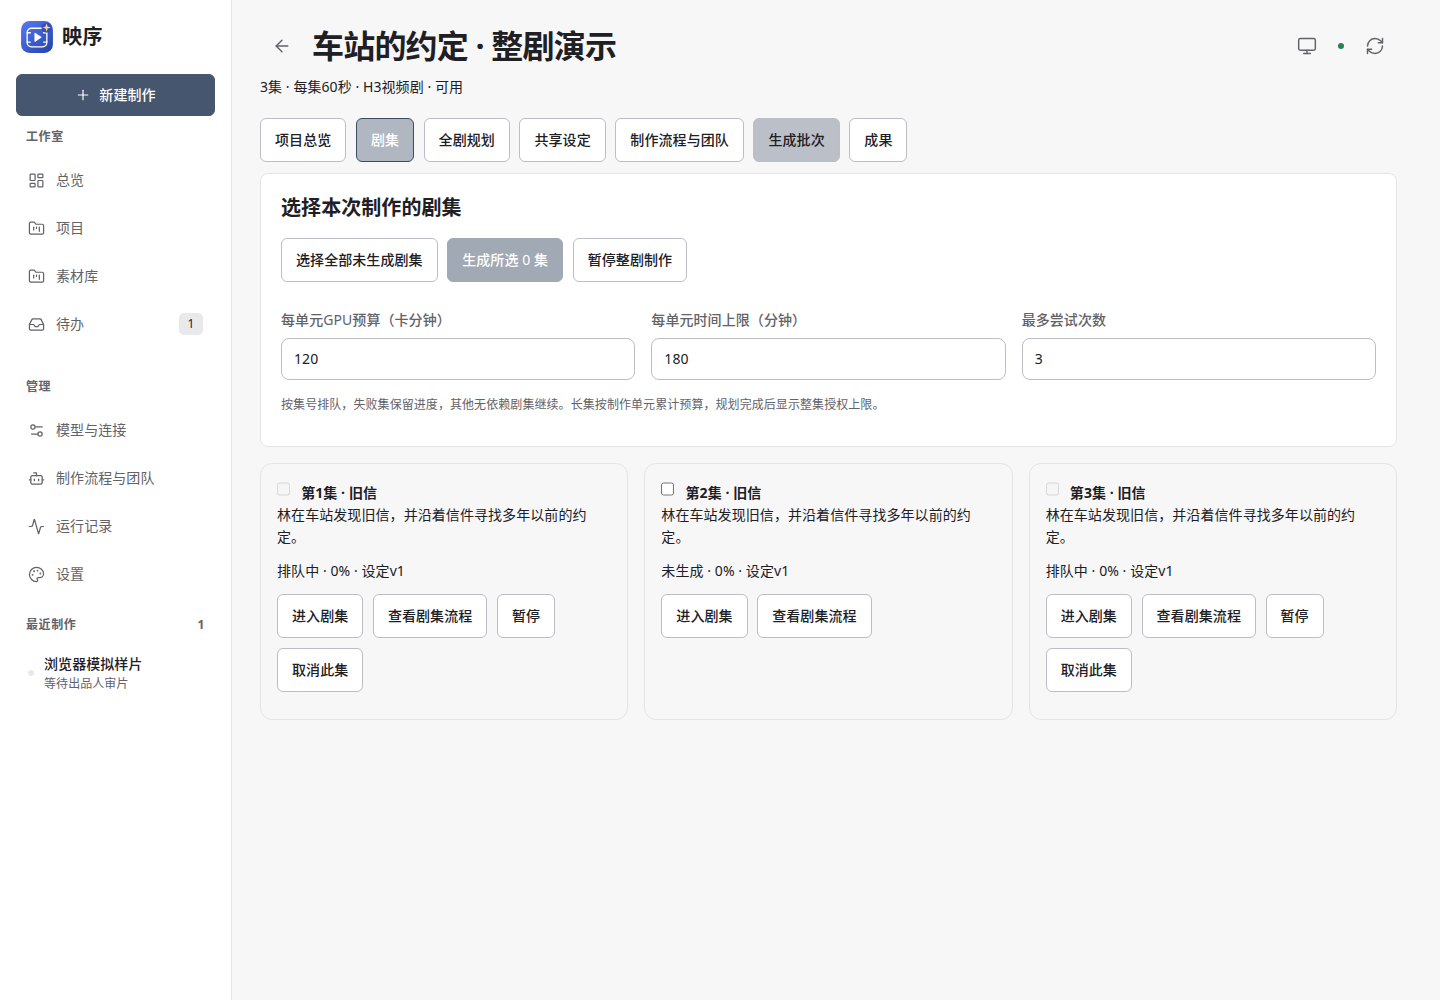
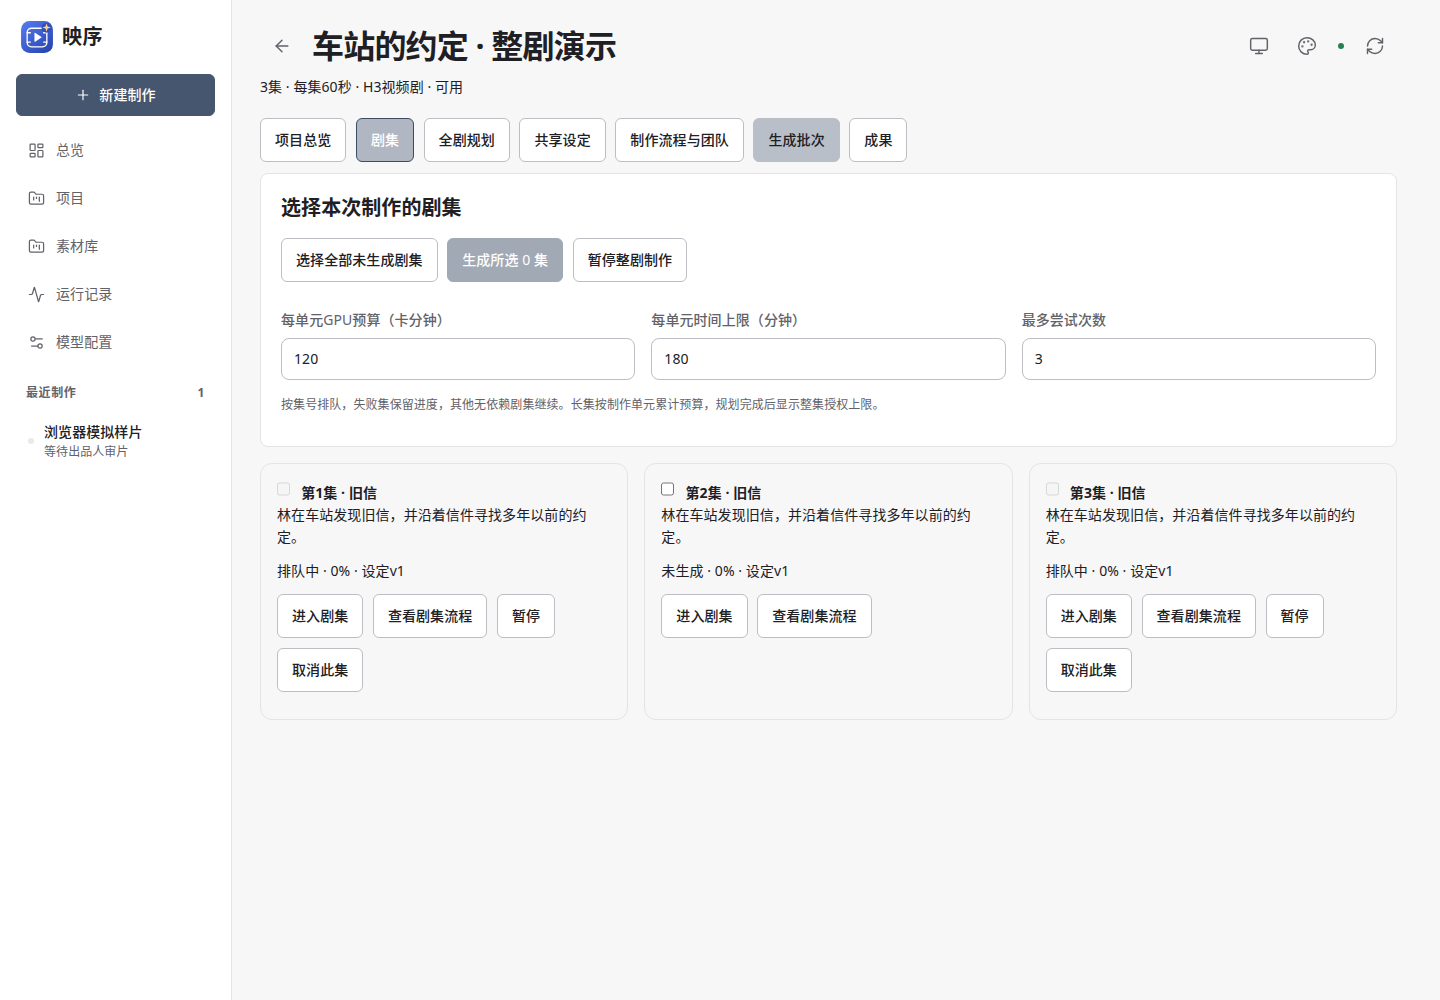
refactor: flatten navigation and consolidate overview decisions
Keep five primary destinations, move pending decisions and their complete pagination into the overview, and expose appearance through shared page tools. Preserve project workflows and existing model configuration while normalizing legacy inbox and global workflow links.

Changed region(s): [[0.0, 0.124, 0.125, 0.496], [0.0, 0.62, 0.0938, 0.713], [0.0312, 0.558, 0.0625, 0.589]]

diff --git a/ui/factory/src/App.tsx b/ui/factory/src/App.tsx
@@ -5,7 +5,6 @@ import {
   FolderKanban,
   Inbox,
   Settings2,
-  Palette,
   Activity,
   Plus,
   Clapperboard,
@@ -81,8 +80,10 @@ import {
 type Route = { view: string; project: string; tab: string };
 function readRoute(): Route {
   const p = new URLSearchParams(location.hash.slice(1));
+  const requested = p.get("view") || "dashboard";
+  const view = requested === "inbox" ? "dashboard" : requested === "workflow" ? "projects" : requested;
   return {
-    view: p.get("view") || "dashboard",
+    view: ["dashboard", "projects", "library", "activity", "models", "settings"].includes(view) ? view : "dashboard",
     project: p.get("project") || "",
     tab: p.get("tab") || "overview",
   };
@@ -91,11 +92,8 @@ const links = [
   ["dashboard", "总览", LayoutDashboard],
   ["projects", "项目", FolderKanban],
   ["library", "素材库", FolderKanban],
-  ["inbox", "待办", Inbox],
-  ["workflow", "制作流程与团队", Bot],
-  ["models", "模型与连接", Settings2],
   ["activity", "运行记录", Activity],
-  ["settings", "设置", Palette],
+  ["models", "模型配置", Settings2],
 ] as const;
 export default function App() {
   return (
@@ -152,11 +150,6 @@ function Workbench() {
     models = useQuery({
       queryKey: keys.models,
       queryFn: () => request("/models"),
-      staleTime: 60000,
-    }),
-    spec = useQuery({
-      queryKey: keys.workflow,
-      queryFn: () => request("/workflow"),
       staleTime: 60000,
     }),
     profiles = useQuery({
@@ -281,14 +274,8 @@ function Workbench() {
             <Plus size={16} />
             新建制作
           </button>
-          <nav className="main-nav">
-            {[
-              { label: "工作室", entries: links.slice(0, 4) },
-              { label: "管理", entries: [links[5], links[4], links[6], links[7]] },
-            ].map((group) => (
-              <div className="nav-group" key={group.label}>
-                <div className="sidebar-label">{group.label}</div>
-                {group.entries.map(([view, label, Icon]) => (
+          <nav className="main-nav" aria-label="主导航">
+                {links.map(([view, label, Icon]) => (
                   <button
                     key={view}
                     className={
@@ -310,15 +297,8 @@ function Workbench() {
                   >
                     <Icon size={17} />
                     {label}
-                    {view === "inbox" && (
-                      <span className="nav-count">
-                        {metrics.attention || 0}
-                      </span>
-                    )}
                   </button>
                 ))}
-              </div>
-            ))}
           </nav>
           <div className="sidebar-label row-between">
             <span>最近制作</span>
@@ -355,6 +335,7 @@ function Workbench() {
               syncError: overview.isError,
               syncing: overview.isFetching,
               refresh,
+              openSettings: () => navigate("settings"),
             }}
           >
             <main id="workspace" tabIndex={-1}>
@@ -411,8 +392,6 @@ function Workbench() {
                       openProject={openProject}
                       create={() => setCreate(true)}
                     />
-                  ) : route.view === "inbox" ? (
-                    <InboxPage openProject={openProject} />
                   ) : route.view === "activity" ? (
                     <>
                       <Heading
@@ -428,80 +407,7 @@ function Workbench() {
                         />
                       </Panel>
                     </>
-                  ) : (
-                    <>
-                      <Heading
-                        eyebrow="PRODUCTION WORKFLOW"
-                        title="制作流程与团队"
-                        description="查看团队如何分工、交接与独立审核，进入项目追踪实际执行。"
-                      />
-                      <Panel title="当前执行任务">
-                        <RunningTasks
-                          tasks={rows(overview.data.running_tasks)}
-                          openProject={openProject}
-                        />
-                      </Panel>
-                      <Panel title="项目工作流">
-                        {!projects.length ? <Empty title="尚无项目" /> : <div className="drama-cards">{projects.map(p => <article className="drama-card" key={p.id}>
-                          <strong>{p.title}</strong>
-                          <p>{activityName(p.stage || p.status)}</p>
-                          <button className="button" onClick={() => openProject(p.id, p.record_kind === "drama" || (p.record_kind === "episode" && p.duration_seconds > 90) ? "workflow" : "overview")}>查看实际流程</button>
-                        </article>)}</div>}
-                      </Panel>
-                      <Panel
-                        title="短片标准流程"
-                        description="此处为短片流程参考，具体执行与返修请打开上方项目工作流。"
-                      >
-                        <FloatingErrorNotice error={spec.error} />
-                        {spec.error && (
-                          <button
-                            className="button"
-                            onClick={() => spec.refetch()}
-                          >
-                            重新读取制作流程
-                          </button>
-                        )}
-                        {spec.isPending ? (
-                          <Loading />
-                        ) : (
-                          !spec.error && (
-                            <Workflow
-                              graph={
-                                spec.data?.production_graph ||
-                                spec.data?.workflow || {
-                                  nodes: rows(spec.data?.nodes),
-                                  edges: rows(spec.data?.edges),
-                                }
-                              }
-                            />
-                          )
-                        )}
-                      </Panel>
-                      <Panel title="已配置的 Agent">
-                        <div className="agent-grid">
-                          {rows(models.data?.roles).map((r) => (
-                            <article className="agent-card" key={r.role}>
-                              <span className="agent-avatar">
-                                <Bot size={20} />
-                              </span>
-                              <h3>{r.label || roleName(r.role)}</h3>
-                              <p>
-                                {r.model ||
-                                  models.data?.editable_profiles?.[r.profile]
-                                    ?.model ||
-                                  "自动编排 / 尚未分配"}
-                              </p>
-                              <small>
-                                {r.requires_vision
-                                  ? "需要图像理解"
-                                  : "工作流角色"}
-                              </small>
-                            </article>
-                          ))}
-                        </div>
-                      </Panel>
-                    </>
-                  )}
+                  ) : null}
                 </>
               )}
             </main>
@@ -622,23 +528,7 @@ function Dashboard({
             />
           )}
         </Panel>
-        <Panel
-          title="需要你的决定"
-          description="每项待办都有明确的原因与下一步"
-          action={
-            <button className="text-link" onClick={() => navigate("inbox")}>
-              全部待办
-              <ArrowUpRight size={14} />
-            </button>
-          }
-          className="dashboard-inbox"
-        >
-          <Attention
-            projects={rows(o.attention_projects || o.projects)}
-            openProject={openProject}
-            limit={3}
-          />
-        </Panel>
+        <PendingDecisions overview={o} openProject={openProject} />
         <Panel title="最近动态" className="dashboard-activity">
           <ActivityList
             events={rows(o.activity).slice(0, 5)}
@@ -2203,9 +2093,11 @@ function Pagination({
     </div>
   );
 }
-function InboxPage({
+function PendingDecisions({
+  overview,
   openProject,
 }: {
+  overview: RecordData;
   openProject: (id: string, tab?: string) => void;
 }) {
   const [offset, setOffset] = useState(0),
@@ -2215,34 +2107,30 @@ function InboxPage({
         request("/console?attention_offset=" + offset + "&attention_limit=100"),
       refetchInterval: 10000,
     });
+  const snapshot = query.data || (offset === 0 ? overview : undefined);
   return (
-    <>
-      <Heading
-        eyebrow="DECISION INBOX"
-        title="待办决策"
-        description="按实际阻断与人工关卡整理，较早项目的待办同样保留。"
-      />
-      <Panel title="需要你处理">
+      <Panel title="待办" className="dashboard-inbox">
         <FloatingErrorNotice error={query.error} />
-        {query.data ? (
+        {snapshot ? (
           <>
             <Attention
               projects={rows(
-                query.data.attention_projects || query.data.projects,
+                snapshot.attention_projects || snapshot.projects,
               )}
               openProject={openProject}
             />
             <Pagination
-              pagination={query.data.attention_pagination}
+              pagination={snapshot.attention_pagination}
               offset={offset}
               onOffset={setOffset}
+              disabled={query.isFetching}
             />
           </>
         ) : (
-          <Loading />
+          query.error ? <Empty title="待办暂时无法读取" /> : <Loading />
         )}
+        {query.error && <button className="button" onClick={() => query.refetch()}>重新读取待办</button>}
       </Panel>
-    </>
   );
 }
 function CurrentOutput({ project: p }: { project: RecordData }) {

diff --git a/ui/factory/src/PageHeader.tsx b/ui/factory/src/PageHeader.tsx
@@ -8,7 +8,7 @@ import {
   type ReactNode,
   type RefObject,
 } from "react";
-import { Menu, MoreHorizontal, RefreshCw } from "lucide-react";
+import { Menu, MoreHorizontal, Palette, RefreshCw } from "lucide-react";
 import { ThemeControl } from "./Theme";
 import { StatusIndicator } from "./StatusIndicator";
 
@@ -19,6 +19,7 @@ type HeaderTools = {
   syncError: boolean;
   syncing: boolean;
   refresh: () => void;
+  openSettings?: () => void;
 };
 const ToolsContext = createContext<HeaderTools | null>(null);
 export const PageHeaderProvider = ToolsContext.Provider;
@@ -85,6 +86,20 @@ function WorkspaceTools({ tools }: { tools: HeaderTools }) {
         aria-label="页面工具操作"
       >
         <ThemeControl />
+        {tools.openSettings && (
+          <button
+            type="button"
+            className="icon-button"
+            aria-label="外观设置"
+            title="外观设置"
+            onClick={() => {
+              setOpen(false);
+              tools.openSettings?.();
+            }}
+          >
+            <Palette size={20} aria-hidden="true" />
+          </button>
+        )}
         <span
           className={
             "sync-state " + (tools.syncError ? "error-text" : "sync-compact")

diff --git a/tests/ui/page-header.test.tsx b/tests/ui/page-header.test.tsx
@@ -10,7 +10,8 @@ import { ThemeProvider } from "../../ui/factory/src/Theme";
 
 it("keeps one title with real parent navigation, actions and shared tools", async () => {
   const refresh = vi.fn(),
-    navigate = vi.fn();
+    navigate = vi.fn(),
+    settings = vi.fn();
   const navigationTrigger = createRef<HTMLButtonElement>();
   render(
     <ThemeProvider>
@@ -22,6 +23,7 @@ it("keeps one title with real parent navigation, actions and shared tools", asyn
           syncError: true,
           syncing: false,
           refresh,
+          openSettings: settings,
         }}
       >
         <PageHeader
@@ -38,6 +40,8 @@ it("keeps one title with real parent navigation, actions and shared tools", asyn
   expect(navigate).toHaveBeenCalledOnce();
   await userEvent.click(screen.getByRole("button", { name: "刷新项目" }));
   expect(refresh).toHaveBeenCalledOnce();
+  await userEvent.click(screen.getByRole("button", { name: "外观设置" }));
+  expect(settings).toHaveBeenCalledOnce();
   expect(screen.getByRole("status")).toHaveTextContent("同步中断");
   expect(navigationTrigger.current).toBe(
     screen.getByRole("button", { name: "展开导航" }),

diff --git a/ui/factory/src/Models.tsx b/ui/factory/src/Models.tsx
@@ -171,7 +171,7 @@ export function Models({ notify }: { notify: (v: string) => void }) {
   if (!inventory || !draft)
     return (
       <>
-        <Heading eyebrow="MODEL SETTINGS" title="模型与连接" />
+        <Heading eyebrow="MODEL SETTINGS" title="模型配置" />
         <FloatingErrorNotice error={query.error} />
         {query.error ? (
           <button className="button" onClick={() => query.refetch()}>
@@ -196,7 +196,7 @@ export function Models({ notify }: { notify: (v: string) => void }) {
   };
   return (
     <div className="model-settings">
-      <Heading eyebrow="MODEL SETTINGS" title="模型与连接" />
+      <Heading eyebrow="MODEL SETTINGS" title="模型配置" />
       <div
         className={
           "model-settings-toolbar" +

diff --git a/ui/factory/src/styles/base.css b/ui/factory/src/styles/base.css
@@ -239,6 +239,7 @@ pre {
 .main-nav {
   display: grid;
   gap: 4px;
+  margin-top: 12px;
 }
 .nav-item {
   border: 0;

diff --git a/docs/UI_DESIGN.md b/docs/UI_DESIGN.md
@@ -14,7 +14,7 @@
 
 ## 外观设置
 
-侧栏“设置”打开`#view=settings`，独立提供显示模式（跟随系统、浅色、深色）与六款主题色。点选即时应用到全局按钮、导航、焦点、进度和工作流选中态；页面展示真实主题 token 的效果预览，无需保存按钮。设置页不依赖业务API可用性，也不写入模型、项目或服务器配置。
+页面右上角“外观设置”图标打开`#view=settings`；手机先展开“页面工具”。外观设置独立提供显示模式（跟随系统、浅色、深色）与六款主题色。点选即时应用到全局按钮、导航、焦点、进度和工作流选中态；页面展示真实主题 token 的效果预览，无需保存按钮。设置页不依赖业务API可用性，也不写入模型、项目或服务器配置。
 
 | 主题 | 浅色模式主色 | 视觉方向 |
 | --- | --- | --- |
@@ -33,7 +33,9 @@
 
 ## 导航与内容
 
-全局日常入口：总览、项目、素材库、待办。管理入口：模型与连接、流程与团队、运行记录、设置；近期项目保留直接访问。
+侧栏采用扁平导航，按顺序仅显示总览、项目、素材库、运行记录、模型配置，不再显示“工作室／管理”分组及全局“流程与团队”入口；近期项目仍可直接访问。模型页使用“模型配置”名称，模型地址、角色分工和工作流定义不因导航调整而改变。
+
+待办集中在总览，直接进入对应项目及需处理阶段。完整列表沿用独立待办分页查询，每页最多100项，不限于最近项目；分页失败可就近点击“重新读取待办”，错误仍通过统一反馈区显示。旧`#view=inbox`链接显示总览，旧`#view=workflow`显示项目列表；保留原地址及浏览器历史。具体项目里的工作流、团队和执行回执入口继续使用。
 
 | 主入口 | 原 hash 与子页面 |
 | --- | --- |
@@ -54,7 +56,7 @@
 ## 验证与证据
 
 - UI 单测覆盖主题、旧路由、审核阶段显示、版本对比、待审核与失败区分、播放 DOM 保持及选片修订保护。
-- 浏览器覆盖全部 7 个全局视图和 10 个项目页面，浅深两套主题及 320/390/768/1024/1440/1920 宽度，检查溢出、按钮可达、旧链接与历史、草稿、表单保存和作品下载。
+- 浏览器覆盖全部5个主导航页面、外观设置、旧全局链接及10个项目页面，浅深两套主题及320/390/768/1024/1440/1920宽度，检查溢出、按钮可达、旧链接与历史、草稿、表单保存和作品下载。
 - 交互使用独立 fixtures 与独立临时 SQLite；真实 HTTP 测试使用测试 Python 服务。色条媒体、模拟模型与审核数据均为测试材料，不是模型推理或制作质量验收。
 - 本次验收不操作正式项目，不调用真实生成，不自动合并或部署。历史截图见[UI改造证据](images/ui-unification/README.md)，当前配色、品牌和审核返修界面见[本轮证据](images/review-return/README.md)。
 

diff --git a/docs/DRAMA_PRODUCTION.md b/docs/DRAMA_PRODUCTION.md
@@ -12,7 +12,7 @@
 
 整剧默认打开项目总览，显示规划、剧集与待处理事项；顶栏分别打开全剧规划、共享设定、剧集、批次、成果及“制作流程与团队”。规划尚未确认时，各页显示对应的准备状态和下一步入口，不再重复显示规划编辑器。页签写入地址，支持刷新、浏览器前进与后退。
 
-在项目总览点击“打开制作流程”，使用与全局工作流相同的节点图查看规划、审核、确认、制作和验收；连线标明交付和审核退回路径。点击节点查看参与角色、工作职责、输入、交付及该阶段的真实执行记录，展开记录查看模型、结果和审核问题。手机先显示流程图，点击节点进入详情，可返回流程图切换节点。规划任务从已保存的调用回执读取，缺少回执时明确提示，不把尚未执行的步骤标成已完成；旧确认版本不会把正在修改的新稿标为已确认。全局“制作流程与团队”列出项目实际流程入口，短片标准流程另作为参考展示。整剧流程可进入对应剧集，长集可继续进入制作单元的团队工作台，查看具体镜头任务、执行回执和产物。长集总览仍提供场景/单元进度、播放、下载与局部修改。桌面和手机均可选集、启动、暂停、继续、观看和提交返修。
+从项目列表进入整剧，在项目总览点击“打开制作流程”，使用节点图查看规划、审核、确认、制作和验收；连线标明交付和审核退回路径。点击节点查看参与角色、工作职责、输入、交付及该阶段的真实执行记录，展开记录查看模型、结果和审核问题。手机先显示流程图，点击节点进入详情，可返回流程图切换节点。规划任务从已保存的调用回执读取，缺少回执时明确提示，不把尚未执行的步骤标成已完成；旧确认版本不会把正在修改的新稿标为已确认。全局侧栏不再单列流程与团队，具体流程从各项目查看；模型、角色和流程定义保持既有配置。整剧流程可进入对应剧集，长集可继续进入制作单元的团队工作台，查看具体镜头任务、执行回执和产物。长集总览仍提供场景/单元进度、播放、下载与局部修改。桌面和手机均可选集、启动、暂停、继续、观看和提交返修。
 
 ## 共享版本与来源
 

diff --git a/docs/images/navigation/README.md b/docs/images/navigation/README.md
@@ -1,0 +1,7 @@
+# 扁平导航与总览待办
+
+`flat-navigation-1440.png`展示桌面五项主导航和总览中的待办；`flat-navigation-390.png`展示手机导航抽屉。两图均由`tests/browser/flat-navigation.spec.mjs`使用隔离模拟API和实际生产构建生成，不是生产项目或模型生成证据。
+
+主导航仅保留总览、项目、素材库、运行记录、模型配置。外观设置从右上角页面工具进入，具体项目的流程和团队仍在项目中查看。浏览器检查100项以上待办翻页、失败重试、旧项目准确跳转、旧全局链接及外观偏好保持。
+
+复现：`npm run build`后执行`npm run test:browser -- tests/browser/flat-navigation.spec.mjs`。设计约定见[界面设计](../../UI_DESIGN.md#导航与内容)。
